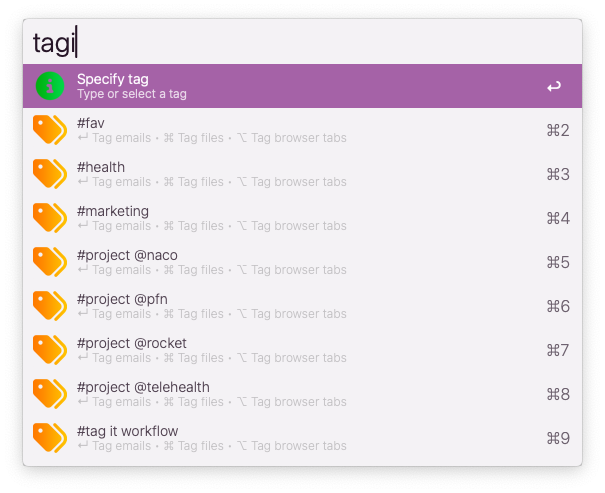
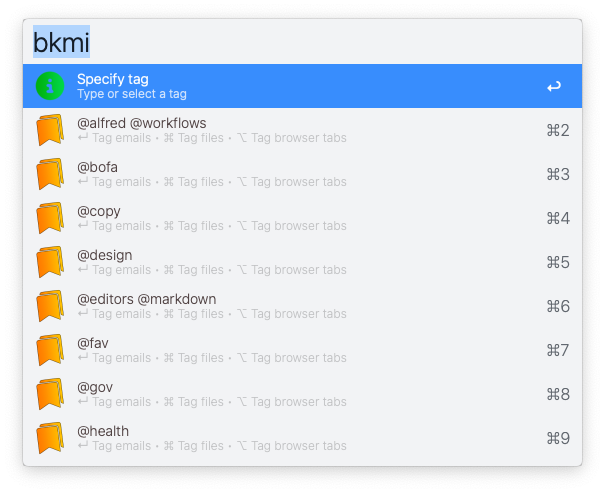
Renamed workflow to Bookmark It!

Changed region(s): [[0.0298, 0.0304, 0.9818, 0.9432]]

diff --git a/scripts/util_export_urls.py b/scripts/util_export_urls.py
@@ -6,7 +6,7 @@ workflow_data = os.getenv('alfred_workflow_data')
 workflow_name = os.getenv('alfred_workflow_name', 'Tag It')
 
 input_path = os.path.join(workflow_data, 'items.json')
-output_path = os.path.join(workflow_data, 'bookmarks.md')
+output_path = os.path.join(workflow_data, 'webpages.md')
 
 with open(input_path, 'r') as f:
     data = json.load(f)
@@ -14,13 +14,13 @@ with open(input_path, 'r') as f:
 with open(output_path, 'w') as f:
     for group in data:
         tag = group.get('tag', 'No tag')
-        bookmarks = [
+        webpages = [
             item for item in group.get('items', [])
-            if item.get('type') == 'bookmark'
+            if item.get('type') == 'webpage'
         ]
-        if bookmarks:
+        if webpages:
             f.write(f"## {tag}\n\n")
-            for b in bookmarks:
+            for b in webpages:
                 title = b.get('title', 'No title')
                 url = b.get('url', '')
                 f.write(f"- [{title}]({url})\n")
@@ -29,5 +29,5 @@ with open(output_path, 'w') as f:
 # **Show notification**
 subprocess.run([
     "osascript", "-e",
-    f'display notification "Exported bookmarks to bookmarks.md" with title "{workflow_name}"'
+    f'display notification "Exported webpages to webpages.md" with title "{workflow_name}"'
 ])

diff --git a/scripts/utils.py b/scripts/utils.py
@@ -4,7 +4,7 @@ import json
 
 ########################################
 #get the right icon based on the current browser setting
-def get_bookmark_icon():
+def get_webpage_icon():
     browser = os.environ.get("browser", "Safari")
     paths = {
         "Safari": "/System/Applications/Safari.app",
@@ -88,7 +88,7 @@ def add_to_recent(entry, tag):
 
 #######################################
 # get files for an item
-def get_item_fields(item, tag, bookmark_icon):
+def get_item_fields(item, tag, webpage_icon):
     item_type = item.get("type")
     uid = item.get("uid")
     title = ""
@@ -116,12 +116,12 @@ def get_item_fields(item, tag, bookmark_icon):
         path = "message://" + urllib.parse.quote(f"<{message_id}>")
         icon = { "path": "/System/Applications/Mail.app", "type": "fileicon" }
 
-    elif item_type == "bookmark":
+    elif item_type == "webpage":
         title = item.get("title") or item.get("url", "")
         url = item.get("url", "")
         subtitle = url
         path = url
-        icon = get_icon(item, bookmark_icon)
+        icon = get_icon(item, webpage_icon)
 
     else:
         return None  # skip unknown

diff --git a/scripts/list_tags.py b/scripts/list_tags.py
@@ -21,7 +21,7 @@ with open(items_path, "r") as f:
 items = []
 for block in data:
     tag = block.get("tag", "")
-    type_counts = { "email":0, "file":0, "bookmark":0}
+    type_counts = { "email":0, "file":0, "webpage":0}
 
     for item in block.get("items", []):
         t = item.get("type")
@@ -32,12 +32,12 @@ for block in data:
     if not any(type_counts.values()):
         continue
 
-    # Build summary string like: [2 emails, 4 bookmarks, 1 file]
+    # Build summary string like: [2 emails, 4 webpage, 1 file]
     type_labels = []
     if type_counts["email"]:
         type_labels.append(f'{type_counts["email"]} email{"s" if type_counts["email"] > 1 else ""}')
-    if type_counts["bookmark"]:
-        type_labels.append(f'{type_counts["bookmark"]} bookmark{"s" if type_counts["bookmark"] > 1 else ""}')
+    if type_counts["webpage"]:
+        type_labels.append(f'{type_counts["webpage"]} webpage{"s" if type_counts["webpage"] > 1 else ""}')
     if type_counts["file"]:
         type_labels.append(f'{type_counts["file"]} file{"s" if type_counts["file"] > 1 else ""}')
 

diff --git a/scripts/list_recent_items.py b/scripts/list_recent_items.py
@@ -34,7 +34,7 @@ valid_uids = {
 
 items = []
 updated_recent = []
-bookmark_icon = utils.get_bookmark_icon()
+webpage_icon = utils.get_webpage_icon()
 
 for entry in recent:
     uid = entry.get("uid")
@@ -46,7 +46,7 @@ for entry in recent:
     ############################
     #skip the file type if it no longeer exists on disk
 
-    fields = utils.get_item_fields(entry, tag, bookmark_icon)
+    fields = utils.get_item_fields(entry, tag, webpage_icon)
     if not fields:
         continue
 
@@ -57,7 +57,7 @@ for entry in recent:
 
     updated_recent.append(entry)  # ✅ Keep all valid entries (entries that also exising in main data file)
 
-    fields = utils.get_item_fields(entry, tag, bookmark_icon)
+    fields = utils.get_item_fields(entry, tag, webpage_icon)
     if not fields:
         continue
 

diff --git a/scripts/tag_tabs.py b/scripts/tag_tabs.py
@@ -91,7 +91,7 @@ if not tag_block:
     tag_block = { "tag": tag, "items": [] }
     data.append(tag_block)
 
-# Process tabs into bookmark items
+# Process tabs into webpage items
 added = 0
 for item in decoded.split("%%"):
     if not item.strip():
@@ -103,13 +103,13 @@ for item in decoded.split("%%"):
     title, url = parts[0].strip(), parts[1].strip()
 
     already_tagged = any(
-        entry.get("type") == "bookmark" and entry.get("url") == url
+        entry.get("type") == "webpage" and entry.get("url") == url
         for entry in tag_block["items"]
     )
 
     if not already_tagged:
         tag_block["items"].append({
-            "type": "bookmark",
+            "type": "webpage",
             "title": title,
             "url": url,
             "uid": str(uuid.uuid4())

diff --git a/scripts/list_items_for_tag.py b/scripts/list_items_for_tag.py
@@ -16,7 +16,7 @@ workflow_dir = os.environ["alfred_workflow_data"]
 items_path = os.path.join(workflow_dir, "items.json")
 workflow_dir_root = os.path.dirname(os.path.dirname(os.path.abspath(__file__)))
 
-bookmark_icon = utils.get_bookmark_icon()
+webpage_icon = utils.get_webpage_icon()
 
 # Load tagged data
 if not os.path.exists(items_path):
@@ -36,7 +36,7 @@ items = []
 for entry in block["items"]:
 
     # get fields for this item
-    fields = utils.get_item_fields(entry, query_tag, bookmark_icon)
+    fields = utils.get_item_fields(entry, query_tag, webpage_icon)
     if not fields:
         continue
 

diff --git a/scripts/list_tag_groups.py b/scripts/list_tag_groups.py
@@ -25,7 +25,7 @@ if not block or not block.get("items"):
 # Group counts by type
 counts = {
     "email": [],
-    "bookmark": [],
+    "webpage": [],
     "file": []
 }
 
@@ -56,13 +56,13 @@ items.append({
 # Mapping per type
 labels = {
     "email": "Emails",
-    "bookmark": "Bookmarks",
+    "webpage": "Webpages",
     "file": "Files"
 }
 
 icons = {
   "email": { "path": "/System/Applications/Mail.app", "type": "fileicon"},
-  "bookmark": utils.get_bookmark_icon(),
+  "webpage": utils.get_webpage_icon(),
   "file": { "path": "/System/Library/CoreServices/Finder.app", "type": "fileicon" }
 }
 

diff --git a/scripts/list_items_for_search.py b/scripts/list_items_for_search.py
@@ -26,7 +26,7 @@ items = [{}]
 #    "icon": { "path": "info.png" }
 #}]
 
-bookmark_icon = utils.get_bookmark_icon()
+webpage_icon = utils.get_webpage_icon()
 
 for group in tag_groups:
     tag = group.get("tag", "")
@@ -34,7 +34,7 @@ for group in tag_groups:
     for item in group.get("items", []):
 
         # get fields for this item
-        fields = utils.get_item_fields(item, tag, bookmark_icon)
+        fields = utils.get_item_fields(item, tag, webpage_icon)
         if not fields:
             continue
 

diff --git a/scripts/open_items.py b/scripts/open_items.py
@@ -34,7 +34,7 @@ for item in block.get("items", []):
         if path and os.path.exists(path):
             subprocess.run(["open", path])
 
-    elif item_type == "bookmark":
+    elif item_type == "webpage":
         url = item.get("url")
         if url:
             browser = os.environ.get("browser")

diff --git a/scripts/open_item.py b/scripts/open_item.py
@@ -31,7 +31,7 @@ elif item_type == "file":
     path = entry.get("path", "")
     subprocess.run(["open", path])
 
-elif item_type == "bookmark":
+elif item_type == "webpage":
     url = entry.get("url", "")
     browser = os.environ.get("browser")
     subprocess.run(["open", "-a", browser, url])

diff --git a/scripts/specify_tag.py b/scripts/specify_tag.py
@@ -42,7 +42,7 @@ def build_mods(tag):
             "arg": tag,
             "subtitle": "⌥ Tag browser tabs",
             "variables": {
-                "item_type": "bookmark",
+                "item_type": "webpage",
                 "tag": tag
             }
         }

diff --git a/scripts/open_all_items.py b/scripts/open_all_items.py
@@ -3,5 +3,5 @@ import subprocess
 
 tag = sys.argv[1].strip()
 
-for item_type in ["file", "bookmark", "email"]:
+for item_type in ["file", "webpage", "email"]:
     subprocess.run(["python3", "scripts/open_items.py", f"{tag}||{item_type}"])
